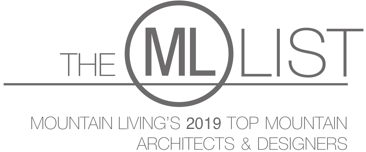
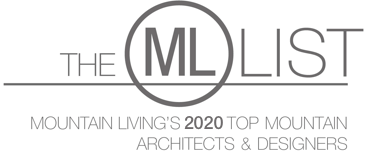
Update ML badge

Changed region(s): [[0.4809, 0.7632, 0.6311, 0.8684]]

diff --git a/wp-content/themes/hardy/footer.php b/wp-content/themes/hardy/footer.php
@@ -20,7 +20,7 @@
       </div>
       <div class="col-lg-4 order-lg-3">
         <div class="ml-badge">
-          <img src="<?php echo get_template_directory_uri(); ?>/dist/asset/img/badge-ml.png" />
+          <img src="<?php echo get_template_directory_uri(); ?>/dist/asset/img/badge-ml.png?=1" />
         </div>
       </div>
 		</div>
